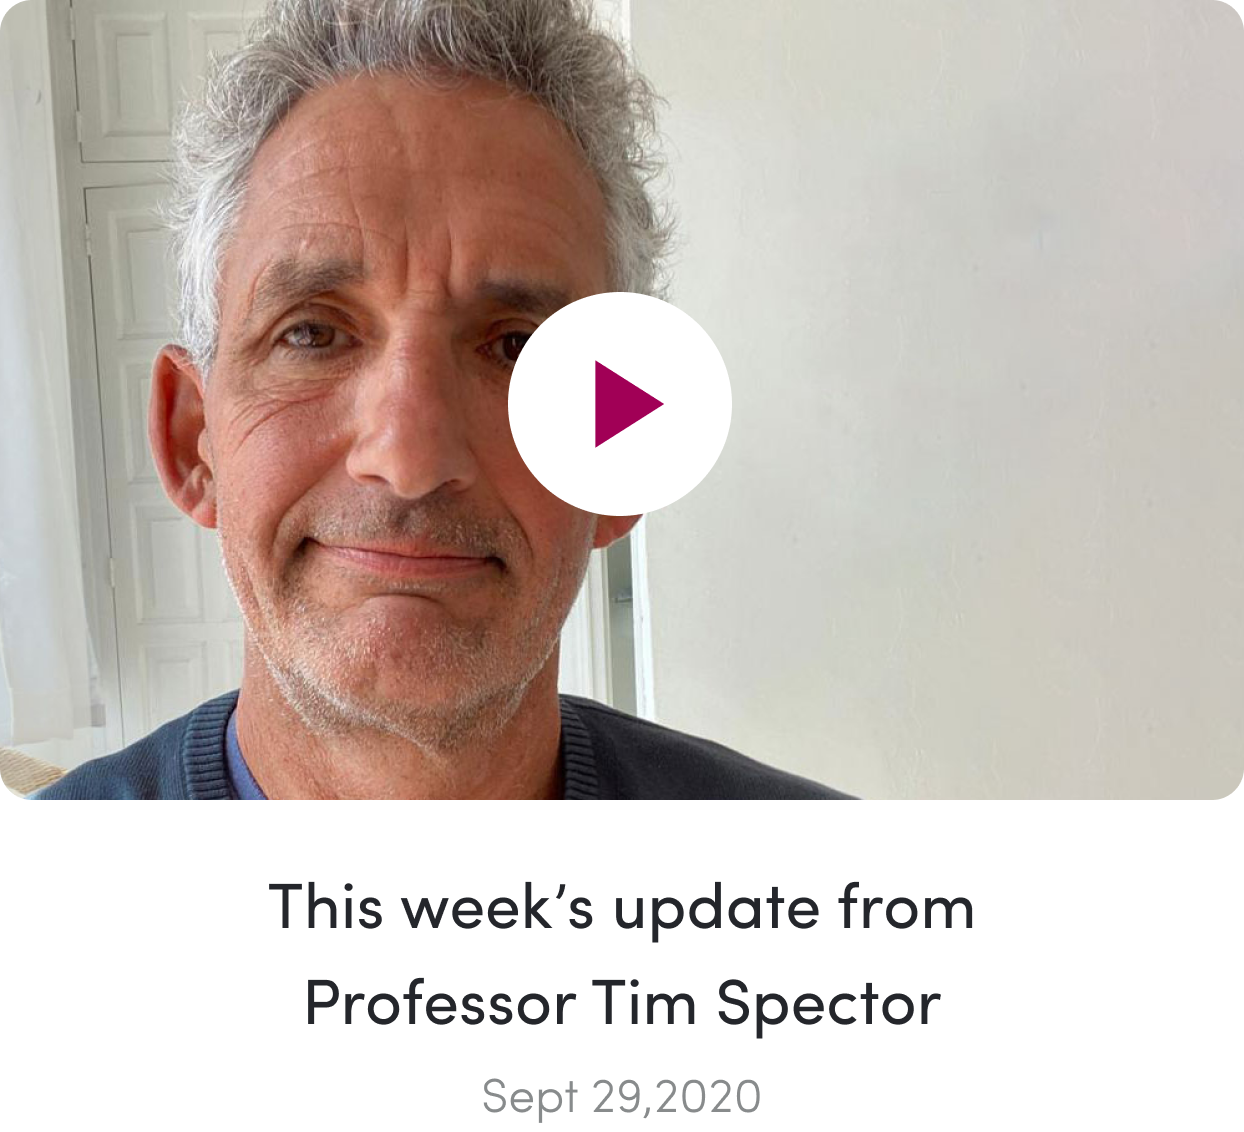
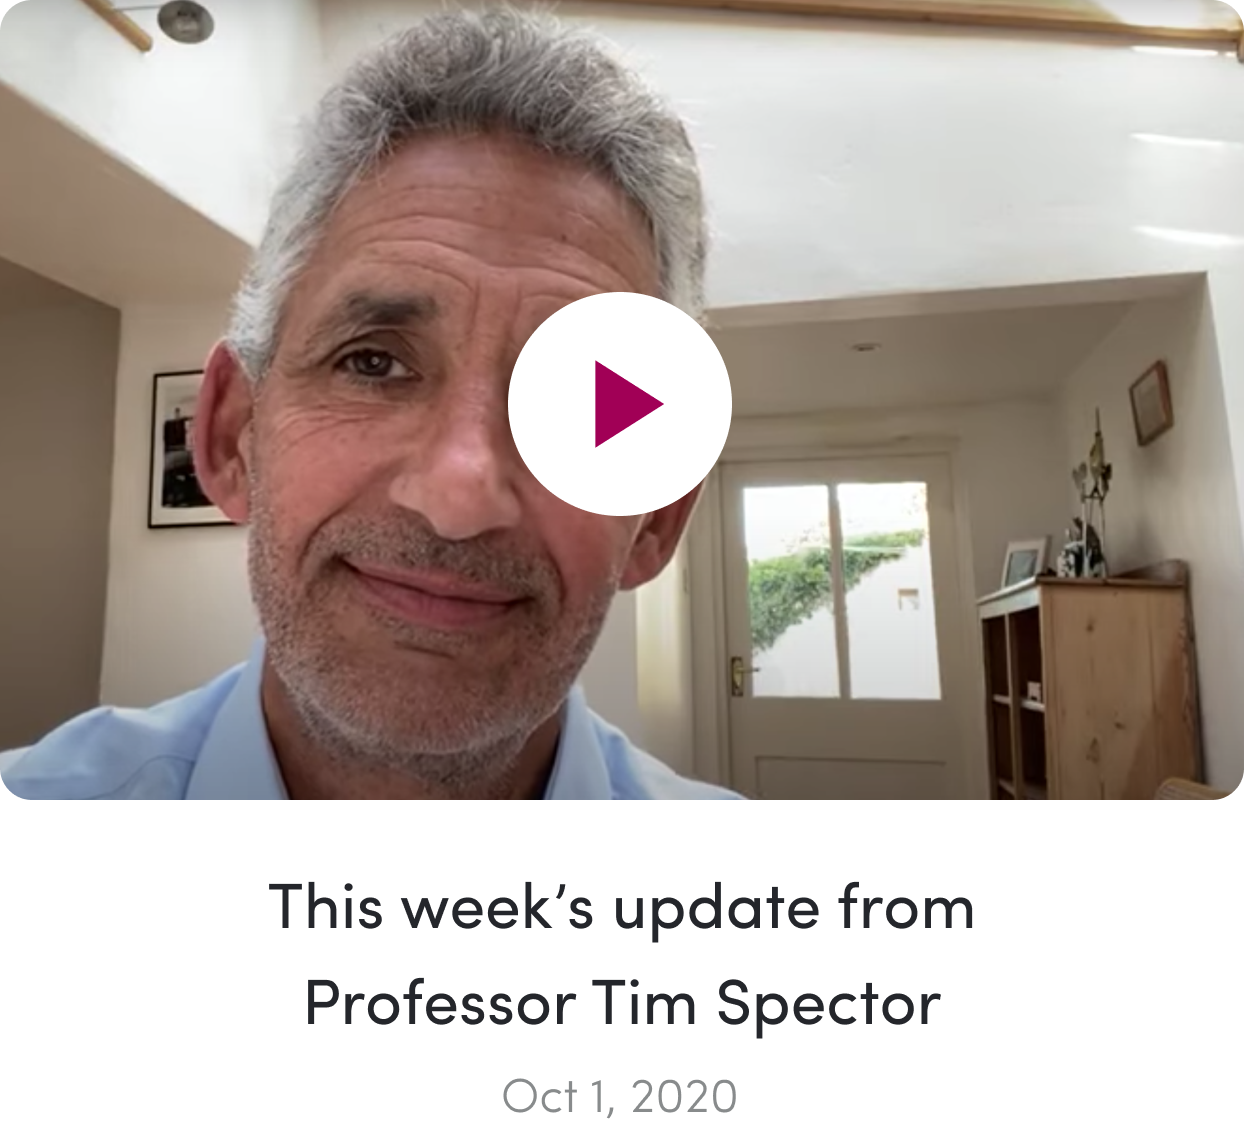
Asset update (#809)
* no message

* no message

* Update video

diff --git a/src/features/thank-you/ThankYouUKScreen.tsx b/src/features/thank-you/ThankYouUKScreen.tsx
@@ -4,7 +4,7 @@ import { Text } from 'native-base';
 import React, { Component } from 'react';
 import { SafeAreaView, ScrollView, StyleSheet, View } from 'react-native';
 
-import { dataPage003, timUpdate012, notificationReminders, blog012 } from '@assets';
+import { dataPage003, timUpdate012, notificationReminders, blog013 } from '@assets';
 import { colors } from '@theme';
 import { AppRating, shouldAskForRating } from '@covid/components/AppRating';
 import { ExternalCallout } from '@covid/components/ExternalCallout';
@@ -18,7 +18,6 @@ import i18n from '@covid/locale/i18n';
 import PushNotificationService, { IPushTokenEnvironment } from '@covid/core/push-notifications/PushNotificationService';
 import ExpoPushTokenEnvironment from '@covid/core/push-notifications/expo';
 import { ScreenParamList } from '@covid/features/ScreenParamList';
-import appCoordinator from '@covid/features/AppCoordinator';
 import { IConsentService } from '@covid/core/consent/ConsentService';
 import assessmentCoordinator from '@covid/core/assessment/AssessmentCoordinator';
 
@@ -78,16 +77,16 @@ export default class ThankYouUKScreen extends Component<RenderProps, State> {
               />
 
               <ExternalCallout
-                link="https://covid.joinzoe.com/post/incidence-update-sept-25?utm_source=App"
-                calloutID="blog_012"
-                imageSource={blog012}
+                link="https://covid.joinzoe.com/post/covid-cases-flattening?utm_source=App"
+                calloutID="blog_013"
+                imageSource={blog013}
                 aspectRatio={1.552}
                 screenName={this.props.route.name}
               />
 
               <ExternalCallout
-                link="https://youtu.be/bzyK4MNqwus"
-                calloutID="tim_update_012"
+                link="https://www.youtube.com/watch?v=3nZfDpNozn0"
+                calloutID="tim_update_013"
                 imageSource={timUpdate012}
                 aspectRatio={1.099}
                 screenName={this.props.route.name}

diff --git a/assets/index.ts b/assets/index.ts
@@ -64,7 +64,7 @@ export const NUMBER_OF_PROFILE_AVATARS = 10;
 export const notificationReminders = require('./thank-you-modules/notification_reminders.png');
 export const notificationRemindersSE = require('./thank-you-modules/notification_reminders_se.png');
 export const dataPage003 = require('./thank-you-modules/data_page_003.png');
-export const blog012 = require('./thank-you-modules/blog_012.png');
+export const blog013 = require('./thank-you-modules/blog_013.png');
 export const incidence011 = require('./thank-you-modules/incidence_011.png');
 export const timUpdate012 = require('./thank-you-modules/tim_update_012.png');
 export const surveyInvite = require('./thank-you-modules/surveyInvite.png');
